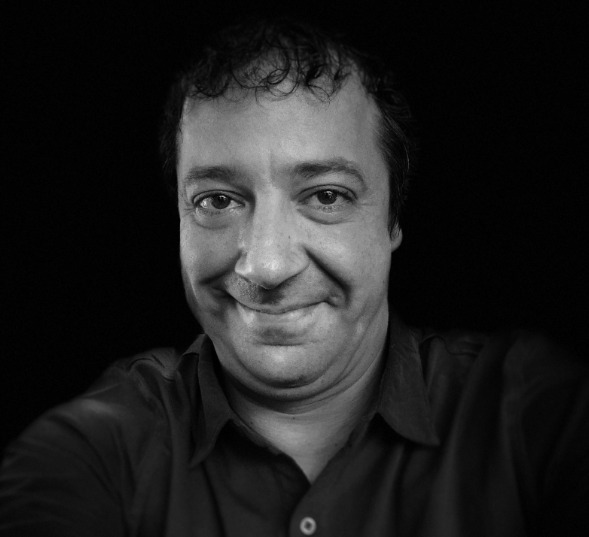
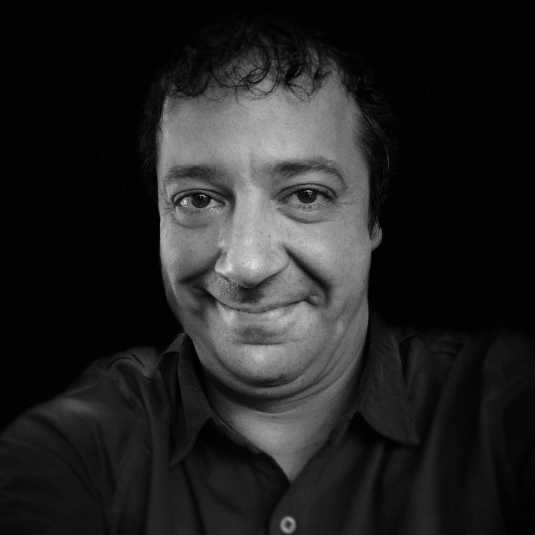
fix: Ajustar tamaño de fotos para testimonios #3

diff --git a/src/modules/landing/components/quoteSlide.jsx b/src/modules/landing/components/quoteSlide.jsx
@@ -1,13 +1,15 @@
 function QuoteSlide({ imageUrl, name, quote, title }) {
   return (
     <div
-      className="grid grid-cols-1  lg:grid-cols-[2fr_3fr] gap-4 lg:gap-8 max-w-4xl
-      mx-auto translate-x-[var(--carusel-animation)] items-center
+      className="grid grid-cols-1  lg:grid-cols-[2fr_3fr]
+      grid-rows-[min-content_1fr] lg:grid-rows-1 gap-2 lg:gap-8 max-w-4xl
+      mx-auto translate-x-[var(--carusel-animation)] items-center object-bottom lg:object-center
       transition-transform duration-400 py-8 h-full"
     >
       <img
         src={`${import.meta.env.BASE_URL}img${imageUrl}`}
-        className="w-40 fit-content rounded-md h-40 object-scale-down object-fit object-center"
+        className="w-1/2 fit-content rounded-md h-auto object-contain
+        object-bottom lg:object-center max-h-[24rem]"
       />
       <div className="relative text-primary w-full text-left">
         <h3 className="font-bold text-lg">{name}</h3>
